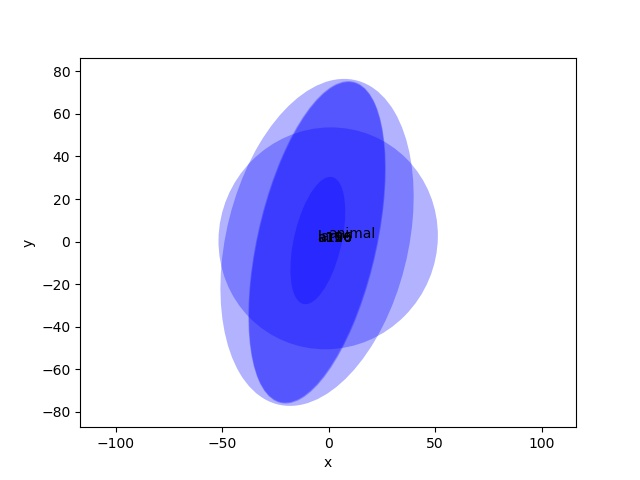
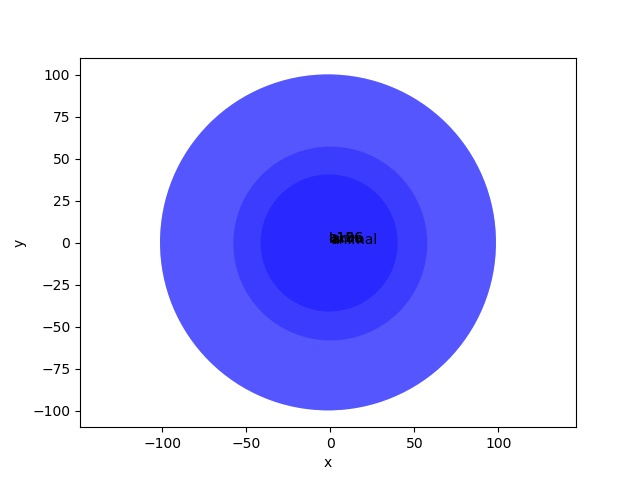
230324

diff --git a/mycode/utils/gaussianDrawer.py b/mycode/utils/gaussianDrawer.py
@@ -38,7 +38,7 @@ class GaussianDrawer():
         plt.switch_backend('agg')
         indexConcepts = self.dataset.indexconvert(conceptlist)
         embedding = self.model.lookupEmbedding_whole(indexConcepts)
-        reducedMeans, reducedVariances = self.PCA_Gaussians(embedding)
+        reducedMeans, reducedVariances = self.PCA_Gaussians(embedding.inv())
         figure , ax = plt.subplots()
         self.gaussians_ellipse(indexConcepts, reducedMeans, reducedVariances, ax, facecolor = 'blue')
         plt.axis('scaled')
@@ -48,19 +48,16 @@ class GaussianDrawer():
         plt.savefig(DatapathArg.path_picture + label + ".jpg")
     
     def PCA_Gaussians(self, embedding:Embedding):
-        means, variances = embedding.m.unsqueeze(-1), torch.diag_embed(1/embedding.v)
-
-        MeanAve              = means.mean()
-        variancePCA         = ((means - MeanAve) @ (means - MeanAve).transpose(1, 2)).mean(0)
-
-        (evals,evecs) = torch.eig(variancePCA, eigenvectors=True)
-        eTopkIndex         = evals[:,0].argsort(descending=True)[ : self.reduceDim]
-        reducedEvecs       = evecs[: , eTopkIndex]
-        
-        reducedMeans        = reducedEvecs.T @ means
-        reducedVariances    = reducedEvecs.T @ variances @ reducedEvecs
+        means, variances = embedding.m.unsqueeze(-1), torch.diag_embed(embedding.v)
+        MeanAve     = means.mean()
+        a           = (means - MeanAve)#*(embedding.v.sum(-2).sqrt().unsqueeze(-1))
+        variancePCA = ((a @ a.transpose(1, 2)) + variances).mean(0)
+        evals,evecs = torch.linalg.eig(variancePCA)
+        eTopkIndex  = evals.real.argsort(descending=True)[ : self.reduceDim]
+        reducedEvecs    = evecs[: , eTopkIndex].real
+        reducedMeans    = reducedEvecs.T @ means
+        reducedVariances= reducedEvecs.T @ variances @ reducedEvecs
         return reducedMeans, reducedVariances
-
 
     def gaussians_ellipse(self, conceptlist, mean, variance, ax, n_std=1, facecolor='yellow',**kwargs):
         """
@@ -118,9 +115,4 @@ class GaussianDrawer():
 
 
 
-if __name__ == "__main__":
-    dataset    = FinalData(DatapathArg.path_rawdata, DatapathArg.path_indexdict)
-    model      = prepare.prepareModel(ifLoadModel=True)
-    drawer     = GaussianDrawer(dataset, model)
-    drawer.drawSamples()
     
